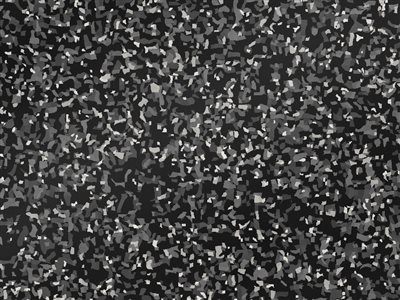
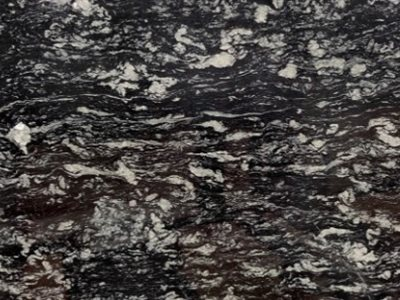
Foto real do Preto Indiano

diff --git a/sistema/index.html b/sistema/index.html
@@ -19,7 +19,7 @@
     });
   </script>
   <!-- versão desta publicação (o publicar.ps1 troca 'dev' pelo número da versão) -->
-  <script>window.VERSAO_SISTEMA = '20261117143719';</script>
+  <script>window.VERSAO_SISTEMA = '20261118101246';</script>
   <!-- tema claro/escuro: aplica antes de desenhar a página (sem piscar). Sem escolha salva, segue o computador -->
   <script>
     (() => {
@@ -30,7 +30,7 @@
     })();
   </script>
   <link rel="icon" href="logo-s.png">
-  <link rel="stylesheet" href="styles.css?v=20261117143719">
+  <link rel="stylesheet" href="styles.css?v=20261118101246">
 </head>
 <body>
   <header class="topbar">
@@ -438,11 +438,11 @@
 
   <script src="vendor/supabase.js"></script>
   <!-- ?v= força o navegador a baixar a versão nova depois de cada publicação -->
-  <script src="avisos.js?v=20261117143719"></script>
-  <script src="acesso.js?v=20261117143719"></script>
-  <script src="catalogo.js?v=20261117143719"></script>
-  <script src="app.js?v=20261117143719"></script>
-  <script src="producao.js?v=20261117143719"></script>
-  <script src="v3d.js?v=20261117143719"></script>
+  <script src="avisos.js?v=20261118101246"></script>
+  <script src="acesso.js?v=20261118101246"></script>
+  <script src="catalogo.js?v=20261118101246"></script>
+  <script src="app.js?v=20261118101246"></script>
+  <script src="producao.js?v=20261118101246"></script>
+  <script src="v3d.js?v=20261118101246"></script>
 </body>
 </html>

diff --git a/catalogo.js b/catalogo.js
@@ -75,9 +75,9 @@ const CATALOGO = [
   { id: 'cinza-castelo', nome: 'Cinza Castelo', tipo: 'granito', preco: 1, tons: 'Cinza claro de granulado fino',
     desc: 'Cinza claro e discreto, muito usado em soleiras, peitoris, escadas e áreas externas.',
     uso: ['Soleira', 'Peitoril', 'Escada', 'Área externa'], tex: { base: '#b4b2ae', pontos: [['#dedcd8', .2], ['#7f7d7a', .3]] } },
-  { id: 'preto-indiano', nome: 'Preto Indiano', tipo: 'granito', preco: 2, tons: 'Preto com manchas cinza e brancas',
-    desc: 'Fundo preto com manchas cinza e brancas bem marcadas. Moderno e muito resistente.',
-    uso: ['Cozinha', 'Área gourmet', 'Banheiro'], tex: { base: '#1a1a1a', pontos: [['#6e6e6e', .3], ['#d6d4cf', .12]] } },
+  { id: 'preto-indiano', nome: 'Preto Indiano', tipo: 'granito', preco: 2, tons: 'Preto com ondas brancas e cinza',
+    desc: 'Fundo preto com ondas e flocos brancos e cinza, com toques de bordô. Movimentado, moderno e muito resistente.',
+    uso: ['Cozinha', 'Área gourmet', 'Banheiro'], tex: { base: '#161414', pontos: [['#3a2626', .3], ['#8a8a88', .2], ['#d6d4cf', .12]] } },
   { id: 'verde-perola', nome: 'Verde Pérola', tipo: 'granito', preco: 2, tons: 'Verde escuro com cristais perolados',
     desc: 'Verde quase preto com cristais claros que refletem a luz. Sofisticado em cozinhas e áreas gourmet.',
     uso: ['Cozinha', 'Área gourmet', 'Mesa'], tex: { base: '#1c2622', pontos: [['#5d7068', .35], ['#a9b6ae', .12]] } },

diff --git a/sistema/catalogo.js b/sistema/catalogo.js
@@ -75,9 +75,9 @@ const CATALOGO = [
   { id: 'cinza-castelo', nome: 'Cinza Castelo', tipo: 'granito', preco: 1, tons: 'Cinza claro de granulado fino',
     desc: 'Cinza claro e discreto, muito usado em soleiras, peitoris, escadas e áreas externas.',
     uso: ['Soleira', 'Peitoril', 'Escada', 'Área externa'], tex: { base: '#b4b2ae', pontos: [['#dedcd8', .2], ['#7f7d7a', .3]] } },
-  { id: 'preto-indiano', nome: 'Preto Indiano', tipo: 'granito', preco: 2, tons: 'Preto com manchas cinza e brancas',
-    desc: 'Fundo preto com manchas cinza e brancas bem marcadas. Moderno e muito resistente.',
-    uso: ['Cozinha', 'Área gourmet', 'Banheiro'], tex: { base: '#1a1a1a', pontos: [['#6e6e6e', .3], ['#d6d4cf', .12]] } },
+  { id: 'preto-indiano', nome: 'Preto Indiano', tipo: 'granito', preco: 2, tons: 'Preto com ondas brancas e cinza',
+    desc: 'Fundo preto com ondas e flocos brancos e cinza, com toques de bordô. Movimentado, moderno e muito resistente.',
+    uso: ['Cozinha', 'Área gourmet', 'Banheiro'], tex: { base: '#161414', pontos: [['#3a2626', .3], ['#8a8a88', .2], ['#d6d4cf', .12]] } },
   { id: 'verde-perola', nome: 'Verde Pérola', tipo: 'granito', preco: 2, tons: 'Verde escuro com cristais perolados',
     desc: 'Verde quase preto com cristais claros que refletem a luz. Sofisticado em cozinhas e áreas gourmet.',
     uso: ['Cozinha', 'Área gourmet', 'Mesa'], tex: { base: '#1c2622', pontos: [['#5d7068', .35], ['#a9b6ae', .12]] } },
